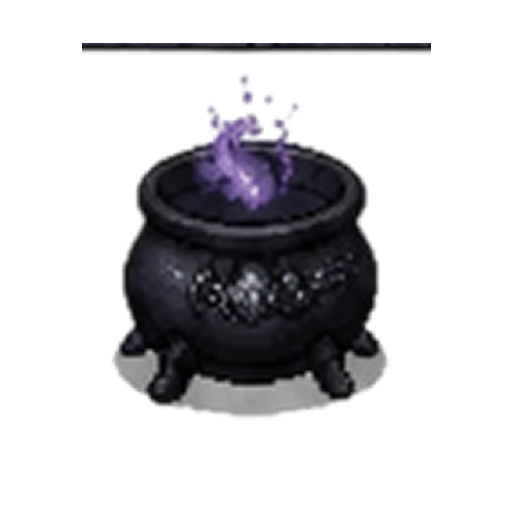
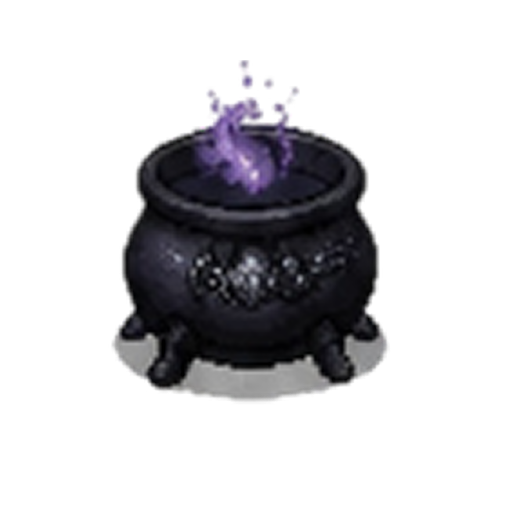
refined the level start dialog and fixed a cropping error

Changed region(s): [[0.1562, 0.0625, 0.8438, 0.8125]]

diff --git a/lib/features/map/widgets/level_select.dart b/lib/features/map/widgets/level_select.dart
@@ -1,0 +1,137 @@
+import 'package:flutter/material.dart';
+import 'package:go_router/go_router.dart';
+import 'package:google_fonts/google_fonts.dart';
+import 'package:provider/provider.dart';
+
+import 'package:mojingo/config/audio/audio_controller.dart';
+import 'package:mojingo/config/audio/sounds.dart';
+import 'package:mojingo/config/palette.dart';
+
+class LevelStartDialog extends StatelessWidget {
+  final int level;
+  final String targetEmoji;
+
+  const LevelStartDialog({
+    super.key,
+    required this.level,
+    required this.targetEmoji,
+  });
+
+  @override
+  Widget build(BuildContext context) {
+    final palette = context.watch<Palette>();
+
+    return Dialog(
+      backgroundColor: Colors.transparent,
+      elevation: 0,
+      child: SizedBox(
+        width: 677,
+        height: 818,
+
+        child: Stack(
+          alignment: Alignment.center,
+          children: [
+            Image.asset(
+              'assets/images/level/scroll.png',
+              fit: BoxFit.fitWidth,
+              width: 677,
+              height: 818,
+            ),
+
+            Padding(
+              padding: const EdgeInsets.symmetric(
+                horizontal: 50.0,
+                vertical: 40.0,
+              ),
+              child: Column(
+                mainAxisAlignment: MainAxisAlignment.center,
+                children: [
+                  Text(
+                    "Level $level",
+                    style: GoogleFonts.eagleLake(
+                      color: palette.midnight,
+                      fontSize: 48,
+                      fontWeight: FontWeight.bold,
+                    ),
+                  ),
+
+                  Container(
+                    padding: const EdgeInsets.all(16),
+                    child: Text(
+                      targetEmoji,
+                      style: const TextStyle(fontSize: 80),
+                    ),
+                  ),
+                  
+                  GestureDetector(
+                    onTap: () {
+                      context.read<AudioController>().playSfx(
+                        SfxType.buttonTap,
+                      );
+                      Navigator.of(context).pop(); 
+                      GoRouter.of(
+                        context,
+                      ).go('/play/session/$level'); 
+                    },
+                    child: Container(
+                      padding: const EdgeInsets.symmetric(
+                        horizontal: 40,
+                        vertical: 12,
+                      ),
+                      decoration: BoxDecoration(
+                        color: palette.twilight,
+                        borderRadius: BorderRadius.circular(20),
+                        border: Border.all(color: palette.voidBlack, width: 3),
+                        boxShadow: [
+                          BoxShadow(
+                            color: palette.voidBlack.withValues(alpha: 0.5),
+                            offset: const Offset(0, 4),
+                          ),
+                        ],
+                      ),
+                      child: Text(
+                        "MIX IT",
+                        style: GoogleFonts.eagleLake(
+                          fontSize: 24,
+                          color: palette.mist,
+                        ),
+                      ),
+                    ),
+                  ),
+                ],
+              ),
+            ),
+
+            Positioned(
+              top: 230,
+              right: 30,
+              child: GestureDetector(
+                onTap: () {
+                  context.read<AudioController>().playSfx(SfxType.buttonTap);
+                  Navigator.of(context).pop();
+                },
+
+                child: Container(
+                  decoration: BoxDecoration(
+                    color: palette.crimson,
+                    shape: BoxShape.circle,
+
+                    border: Border.all(color: palette.voidBlack, width: 3),
+                    boxShadow: [
+                      BoxShadow(
+                        color: palette.voidBlack.withValues(alpha: 0.5),
+                        offset: const Offset(0, 4),
+                      ),
+                    ],
+                  ),
+                  child: Icon(Icons.close, color: palette.mist, size: 24),
+                ),
+              ),
+            ),
+          ],
+        ),
+      ),
+    );
+  }
+
+}

diff --git a/lib/features/map/widgets/level_node.dart b/lib/features/map/widgets/level_node.dart
@@ -1,23 +1,27 @@
 import 'package:flutter/material.dart';
-import 'package:go_router/go_router.dart';
 import 'package:mojingo/config/audio/audio_controller.dart';
 import 'package:mojingo/config/audio/sounds.dart';
+import 'package:mojingo/features/map/widgets/level_select.dart';
+import 'package:mojingo/utils/responsive.dart';
 import 'package:provider/provider.dart';
 
 class LevelNode extends StatelessWidget {
   final int level;
 
-  const LevelNode({super.key, required this.level});
+  const LevelNode({
+    super.key,
+    required this.level,
+  });
 
   @override
   Widget build(BuildContext context) {
-    final isLargeScreen = MediaQuery.sizeOf(context).width > 600;
+    final isLarge = context.isLargeScreen;
 
-    final double nodeSize = isLargeScreen ? 85.0 : 45.0;
-
-    final double fontSize = isLargeScreen ? 28.0 : 16.0;
+    final double nodeSize = isLarge ? 85.0 : 45.0;
+    final double fontSize = isLarge ? 28.0 : 16.0;
 
     return InkWell(
+      borderRadius: BorderRadius.circular(100),
       onTap: () => _showLevelDialog(context),
       child: SizedBox(
         width: 100,
@@ -34,9 +38,17 @@ class LevelNode extends StatelessWidget {
             Text(
               "$level",
               style: Theme.of(context).textTheme.titleMedium?.copyWith(
-                fontSize: fontSize,
-                fontWeight: FontWeight.bold,
-              ),
+                    fontSize: fontSize,
+                    fontWeight: FontWeight.w900,
+                    color: Colors.white,
+                    shadows: const [
+                      Shadow(
+                        blurRadius: 8,
+                        color: Colors.black54,
+                        offset: Offset(0, 2),
+                      ),
+                    ],
+                  ),
             ),
           ],
         ),
@@ -44,31 +56,20 @@ class LevelNode extends StatelessWidget {
     );
   }
 
-  void _showLevelDialog(BuildContext context) {
+void _showLevelDialog(BuildContext context) {
     final audioController = context.read<AudioController>();
+    audioController.playSfx(SfxType.buttonTap); 
 
     showDialog(
       context: context,
+      barrierColor: Colors.black.withValues(alpha: .7), 
       builder: (BuildContext context) {
-        return AlertDialog(
-          title: Text("Level $level"),
-          content: const Text("Ready to play this level?"),
-          actions: <Widget>[
-            TextButton(
-              child: const Text("Cancel"),
-              onPressed: () => Navigator.of(context).pop(),
-            ),
-            FilledButton(
-              child: const Text("Play"),
-              onPressed: () {
-                audioController.playSfx(SfxType.buttonTap);
-
-                GoRouter.of(context).go('/play/session/$level');
-              },
-            ),
-          ],
+        return LevelStartDialog(
+          level: level, 
+          targetEmoji: "☁️", 
         );
       },
     );
   }
+
 }